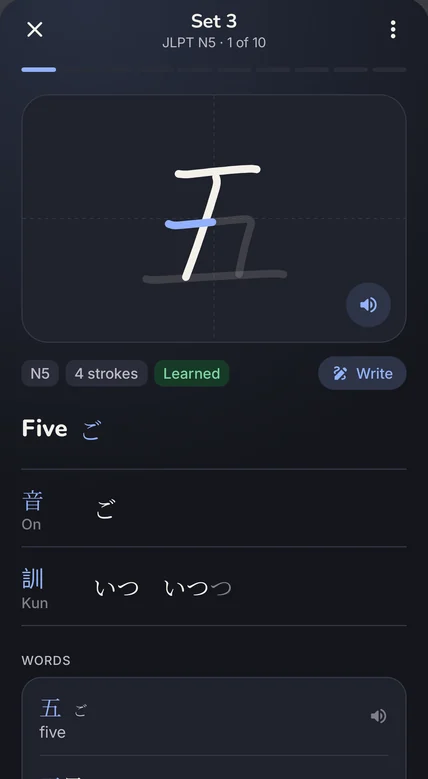
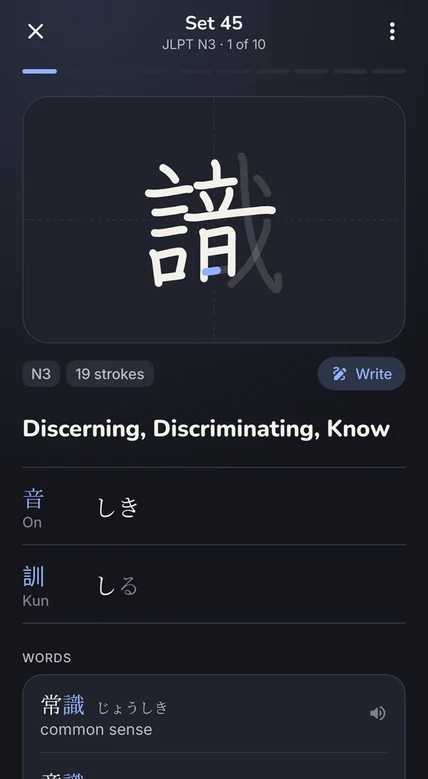
Sumi: show the stroke order of 識 (19 strokes) instead of 五

diff --git a/index.html b/index.html
@@ -1194,7 +1194,7 @@ button.sw[aria-pressed="true"]::after { content: ""; position: absolute; inset: 
             </div>
           </div>
           <div class="card-vis"><div class="vis-inner">
-            <div class="shot s-tall s-t1"><img src="img/sumi-stroke.webp" width="428" height="779" alt="Sumi drawing the stroke order of 五" data-i18n-attr="alt:c7.alt1" loading="lazy"></div>
+            <div class="shot s-tall s-t1"><img src="img/sumi-stroke.webp" width="428" height="779" alt="Sumi drawing the stroke order of 識" data-i18n-attr="alt:c7.alt1" loading="lazy"></div>
             <div class="shot s-tall s-t2"><img src="img/sumi-today.webp" width="428" height="779" alt="Sumi's Today screen with set 14 and 129 of 612 kanji mastered" data-i18n-attr="alt:c7.alt2" loading="lazy"></div>
             <div class="shot s-tall s-t3"><img src="img/sumi-letters.webp" width="428" height="779" alt="A letter from Sumi-chan, written with the kanji learned so far" data-i18n-attr="alt:c7.alt3" loading="lazy"></div>
           </div></div>
@@ -1505,7 +1505,7 @@ Fixes proposed: 4
     'c7.l2': '一画ずつ判定する書き取りパッドと、試験日に合わせた間隔反復',
     'c7.l3': 'Kotlin と Jetpack Compose、テスト<b>167</b>件。アカウント・広告・トラッキングなし',
     'c7.page': 'Sumiを見る →', 'c7.join': 'ベータに参加 →',
-    'c7.alt1': '「五」の書き順を描くSumiの画面', 'c7.alt2': 'Sumiの「今日」の画面。セット14、612字中129字を習得', 'c7.alt3': '覚えた漢字だけで書かれた、すみちゃんからの手紙',
+    'c7.alt1': '「識」の書き順を描くSumiの画面', 'c7.alt2': 'Sumiの「今日」の画面。セット14、612字中129字を習得', 'c7.alt3': '覚えた漢字だけで書かれた、すみちゃんからの手紙',
     'c2.jp': 'ODPT Challenge 2026 応募作品',
     'c2.desc': '東京の乗り換え案内アプリです。出発地から目的地までの経路を調べ、推定値はすべて推定値だと明記します。',
     'c2.l1': '<b>2,105</b>駅を対象に経路を探索。最速経路はA*、それ以外の条件はダイクストラ法で求めます',

diff --git a/sumi/index.html b/sumi/index.html
@@ -530,7 +530,7 @@ footer .links { display: flex; gap: 18px; }
             <p data-l="ja">読み方は実際の単語でよく使われる順。よく出会う例語も一緒に。</p></div>
         </div>
         <div class="step rv" style="--d:.08s">
-          <div class="shot"><div class="phone"><img decoding="async" src="img/stroke.webp" width="560" height="1019" alt="The kanji 五 drawn stroke by stroke" loading="lazy"></div></div>
+          <div class="shot"><div class="phone"><img decoding="async" src="img/stroke.webp" width="560" height="1019" alt="The kanji 識 drawn stroke by stroke" loading="lazy"></div></div>
           <div class="cap"><span class="num"></span>
             <h3><span data-l="en">Watch the strokes</span><span data-l="ja">書き順を見る</span></h3>
             <p data-l="en">Every kanji is drawn for you stroke by stroke, in the right order and direction.</p>
